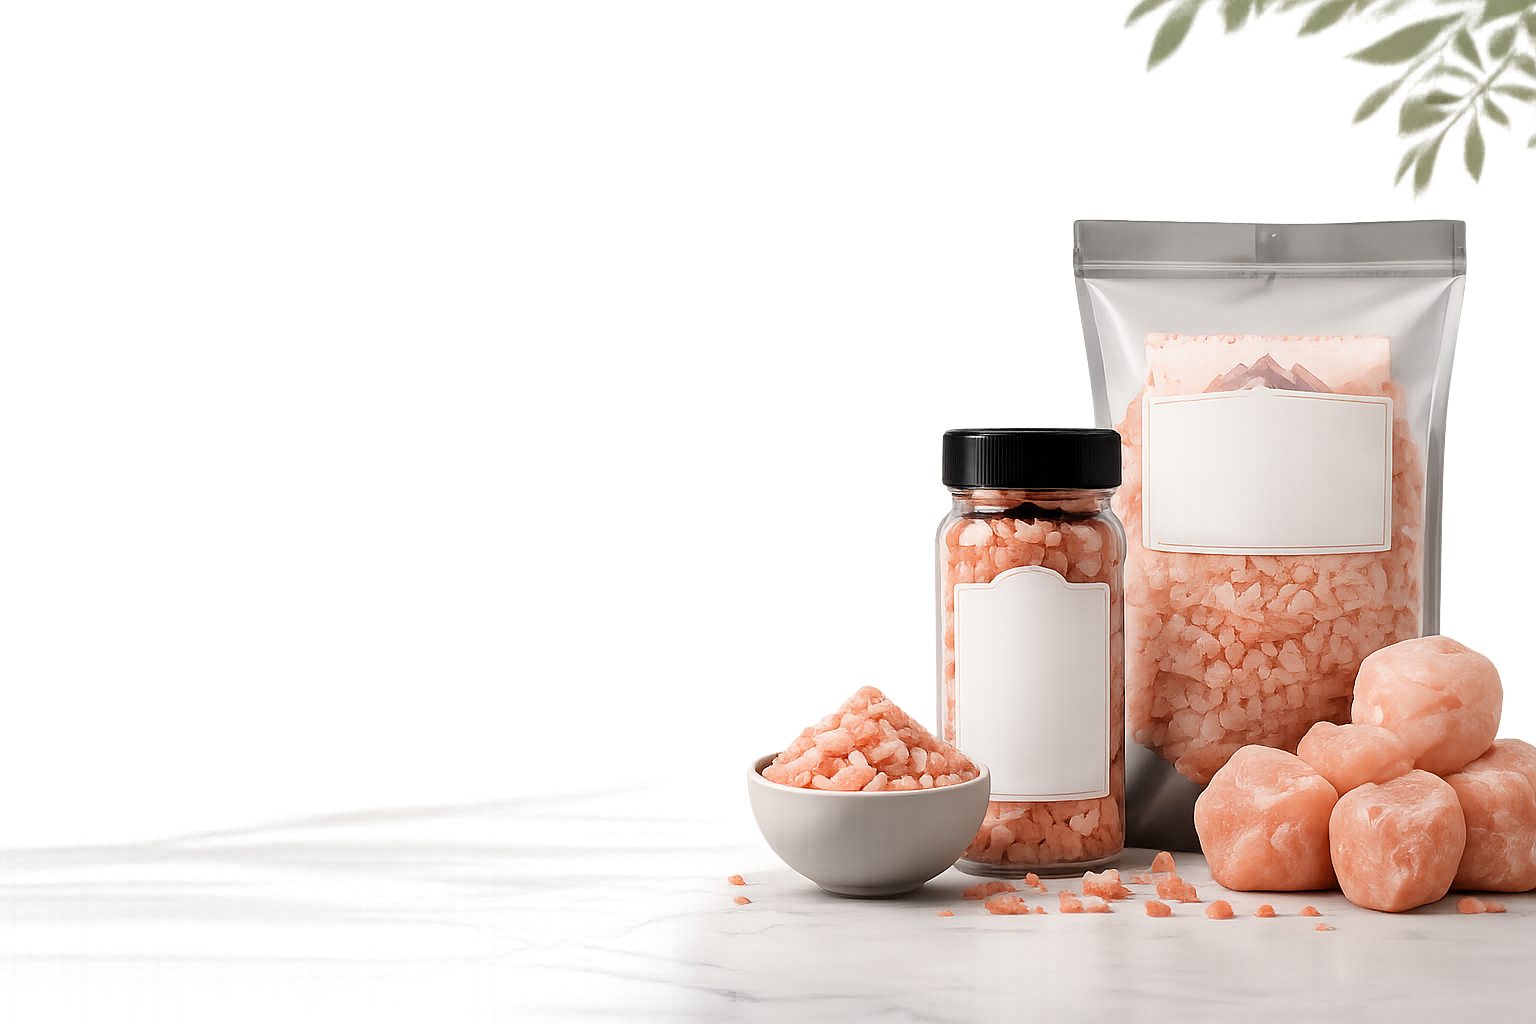
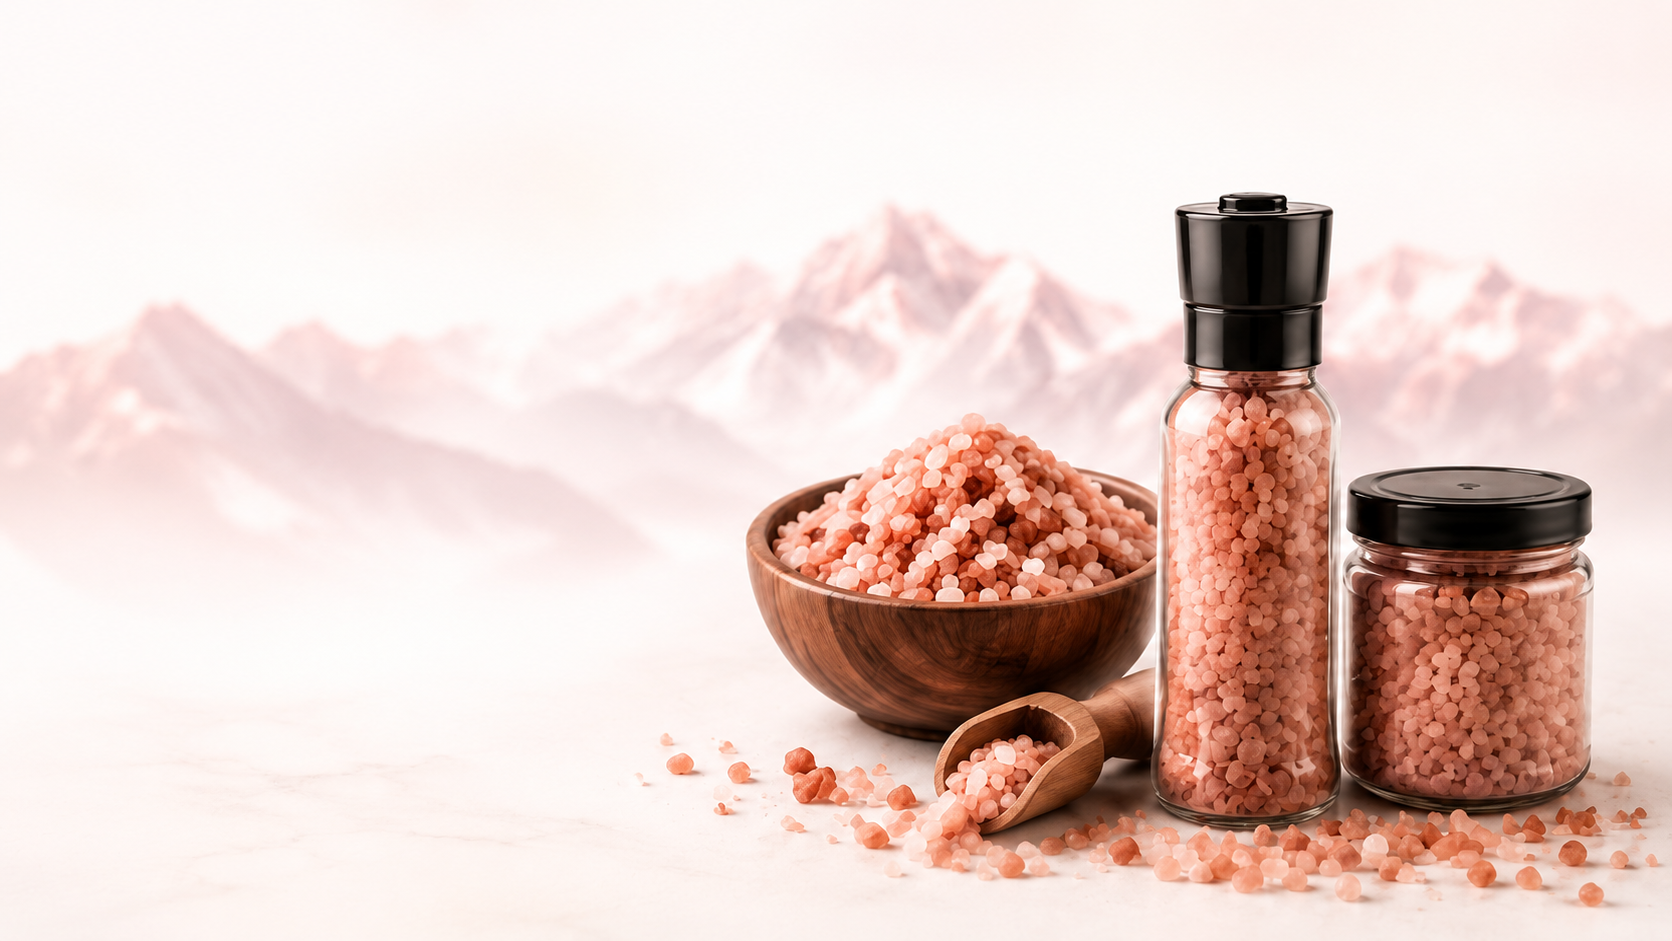
Update navbar and hero design

diff --git a/src/components/Hero.tsx b/src/components/Hero.tsx
@@ -8,73 +8,93 @@ import {
 
 export default function Hero() {
   return (
-    <section className="bg-[#fff8f5]">
-      <div className="max-w-7xl mx-auto px-5 lg:px-6 pt-8 pb-10">
-        <div className="relative overflow-hidden rounded-[28px] min-h-[560px] bg-[url('/hero-banner.png')] bg-contain bg-right-bottom bg-no-repeat">
-          <div className="absolute inset-0 bg-gradient-to-r from-[#fff8f5] via-[#fff8f5]/90 to-transparent" />
+    <section className="bg-[#FFF8F5]">
+      <div className="max-w-7xl mx-auto px-6 pt-6 pb-10">
 
-          <div className="relative z-10 max-w-2xl px-4 lg:px-0 py-20">
-            <span className="uppercase tracking-[6px] text-[#C23B4A] font-bold text-xs">
+        <div
+          className="
+            relative
+            overflow-hidden
+            rounded-[30px]
+            min-h-[650px]
+            flex items-center
+            bg-center
+            bg-cover
+            bg-no-repeat
+          "
+          style={{
+            backgroundImage: "url('/hero-banner.png')",
+          }}
+        >
+          <div className="absolute inset-0 bg-gradient-to-r from-[#FFF8F5] via-[#FFF8F5]/85 to-transparent" />
+
+          <div className="relative z-10 max-w-2xl px-8 lg:px-14">
+            <span className="uppercase tracking-[6px] text-[#C98A92] font-bold text-xs">
               Premium Himalayan Pink Salt
             </span>
 
-            <h1 className="mt-5 text-4xl md:text-5xl lg:text-6xl font-black leading-[0.95] text-[#07142B]">
-              Reliable Supply.
+            <h1 className="mt-5 text-5xl md:text-6xl lg:text-7xl font-black leading-[0.92] text-[#07142B]">
+              Pure. Natural.
               <br />
-              <span className="text-[#C23B4A]">
-                Premium Quality.
+              <span className="text-[#C98A92]">
+                Globally Trusted.
               </span>
             </h1>
 
-            <p className="mt-6 text-slate-600 text-base lg:text-lg leading-relaxed max-w-xl">
-              Leading manufacturer and exporter of 100% natural Himalayan Pink
-              Salt for distributors, wholesalers, retailers and private label
-              brands worldwide.
+            <p className="mt-6 text-slate-600 text-lg leading-relaxed max-w-xl">
+              Premium Himalayan Pink Salt manufacturer and exporter
+              supplying distributors, wholesalers, retailers and
+              private label brands worldwide.
             </p>
 
             <div className="flex flex-wrap gap-4 mt-8">
               <Link
                 href="/products"
-                className="bg-[#C23B4A] text-white px-7 py-4 rounded-lg font-semibold hover:opacity-90 transition"
+                className="bg-[#C98A92] text-white px-8 py-4 rounded-xl font-semibold hover:opacity-90 transition"
               >
-                Explore Products →
+                Explore Products
               </Link>
 
               <Link
                 href="/contact"
-                className="bg-white border border-[#E8D2D6] text-[#07142B] px-7 py-4 rounded-lg font-semibold hover:bg-[#fff4f6] transition"
+                className="bg-white border border-[#E8D2D6] text-[#07142B] px-8 py-4 rounded-xl font-semibold hover:bg-[#FFF4F5] transition"
               >
-                Get Quote →
+                Get Quote
               </Link>
-            </div>
-
-            <div className="grid grid-cols-2 lg:grid-cols-4 gap-4 mt-10 max-w-3xl">
-              <div>
-                <Leaf className="w-6 h-6 text-[#C23B4A] mb-2" />
-                <h3 className="font-bold text-sm">100% Natural</h3>
-                <p className="text-xs text-slate-500">No Additives</p>
-              </div>
-
-              <div>
-                <FlaskConical className="w-6 h-6 text-[#C23B4A] mb-2" />
-                <h3 className="font-bold text-sm">Lab Tested</h3>
-                <p className="text-xs text-slate-500">Premium Quality</p>
-              </div>
-
-              <div>
-                <Truck className="w-6 h-6 text-[#C23B4A] mb-2" />
-                <h3 className="font-bold text-sm">On-Time Delivery</h3>
-                <p className="text-xs text-slate-500">Worldwide</p>
-              </div>
-
-              <div>
-                <PackageCheck className="w-6 h-6 text-[#C23B4A] mb-2" />
-                <h3 className="font-bold text-sm">Private Label</h3>
-                <p className="text-xs text-slate-500">Custom Branding</p>
-              </div>
             </div>
           </div>
         </div>
+
+        <div className="bg-white border border-[#F0DDE1] rounded-[24px] mt-6 overflow-hidden">
+          <div className="grid grid-cols-2 lg:grid-cols-4">
+
+            <div className="p-5 text-center border-r border-b lg:border-b-0 border-[#F0DDE1]">
+              <Leaf className="w-7 h-7 mx-auto mb-2 text-[#C98A92]" />
+              <h3 className="font-semibold">100% Natural</h3>
+              <p className="text-xs text-slate-500">No Additives</p>
+            </div>
+
+            <div className="p-5 text-center border-r border-b lg:border-b-0 border-[#F0DDE1]">
+              <FlaskConical className="w-7 h-7 mx-auto mb-2 text-[#C98A92]" />
+              <h3 className="font-semibold">Lab Tested</h3>
+              <p className="text-xs text-slate-500">Premium Quality</p>
+            </div>
+
+            <div className="p-5 text-center border-r border-[#F0DDE1]">
+              <Truck className="w-7 h-7 mx-auto mb-2 text-[#C98A92]" />
+              <h3 className="font-semibold">Worldwide Delivery</h3>
+              <p className="text-xs text-slate-500">Export Ready</p>
+            </div>
+
+            <div className="p-5 text-center">
+              <PackageCheck className="w-7 h-7 mx-auto mb-2 text-[#C98A92]" />
+              <h3 className="font-semibold">Private Label</h3>
+              <p className="text-xs text-slate-500">Custom Branding</p>
+            </div>
+
+          </div>
+        </div>
+
       </div>
     </section>
   );

diff --git a/src/components/Navbar.tsx b/src/components/Navbar.tsx
@@ -9,57 +9,57 @@ export default function Navbar() {
 
   return (
     <>
-      <header className="sticky top-0 z-[999] bg-[#fff8f5] border-b border-[#f1e4e6]">
-        <div className="max-w-7xl mx-auto px-5 lg:px-8 h-20 flex items-center justify-between">
+      <header className="sticky top-0 z-[999] bg-[#FFF8F5]/95 backdrop-blur-sm border-b border-[#F0DDE1]">
+        <div className="max-w-7xl mx-auto px-6 lg:px-8 h-[88px] flex items-center justify-between">
           {/* LOGO */}
           <Link href="/" className="flex items-center">
             <Image
               src="/logo.png"
               alt="The Salt Secrets"
-              width={90}
-              height={90}
+              width={110}
+              height={110}
               priority
-              className="h-[56px] w-auto"
+              className="h-[62px] w-auto object-contain"
             />
           </Link>
 
           {/* DESKTOP MENU */}
           <nav className="hidden lg:flex items-center gap-10 text-[15px] font-medium text-slate-700">
-            <Link href="/" className="hover:text-[#C23B4A] transition">
+            <Link href="/" className="hover:text-[#C98A92] transition">
               Home
             </Link>
 
             <Link
               href="/about"
-              className="hover:text-[#C23B4A] transition"
+              className="hover:text-[#C98A92] transition"
             >
               About Us
             </Link>
 
             <Link
               href="/products"
-              className="hover:text-[#C23B4A] transition"
+              className="hover:text-[#C98A92] transition"
             >
               Products
             </Link>
 
             <Link
               href="/private-label"
-              className="hover:text-[#C23B4A] transition"
+              className="hover:text-[#C98A92] transition"
             >
               Private Label
             </Link>
 
             <Link
               href="/#certifications"
-              className="hover:text-[#C23B4A] transition"
+              className="hover:text-[#C98A92] transition"
             >
               Certifications
             </Link>
 
             <Link
               href="/contact"
-              className="hover:text-[#C23B4A] transition"
+              className="hover:text-[#C98A92] transition"
             >
               Contact
             </Link>
@@ -69,7 +69,7 @@ export default function Navbar() {
           <div className="flex items-center gap-4">
             <Link
               href="/contact"
-              className="hidden md:flex items-center justify-center bg-[#C23B4A] text-white px-7 py-2.5 rounded-lg font-semibold hover:opacity-90 transition"
+              className="hidden md:flex items-center justify-center bg-[#C98A92] text-white px-8 py-3 rounded-xl font-semibold hover:opacity-90 transition"
             >
               Get Quote
             </Link>
@@ -98,9 +98,9 @@ export default function Navbar() {
               <Image
                 src="/logo.png"
                 alt="The Salt Secrets"
-                width={65}
-                height={65}
-                className="h-[55px] w-auto"
+                width={75}
+                height={75}
+                className="h-[60px] w-auto object-contain"
               />
 
               <button
@@ -142,7 +142,7 @@ export default function Navbar() {
               <Link
                 href="/contact"
                 onClick={() => setIsOpen(false)}
-                className="mt-4 bg-[#C23B4A] text-white text-center py-4 rounded-lg font-semibold"
+                className="mt-4 bg-[#C98A92] text-white text-center py-4 rounded-xl font-semibold"
               >
                 Get Quote
               </Link>